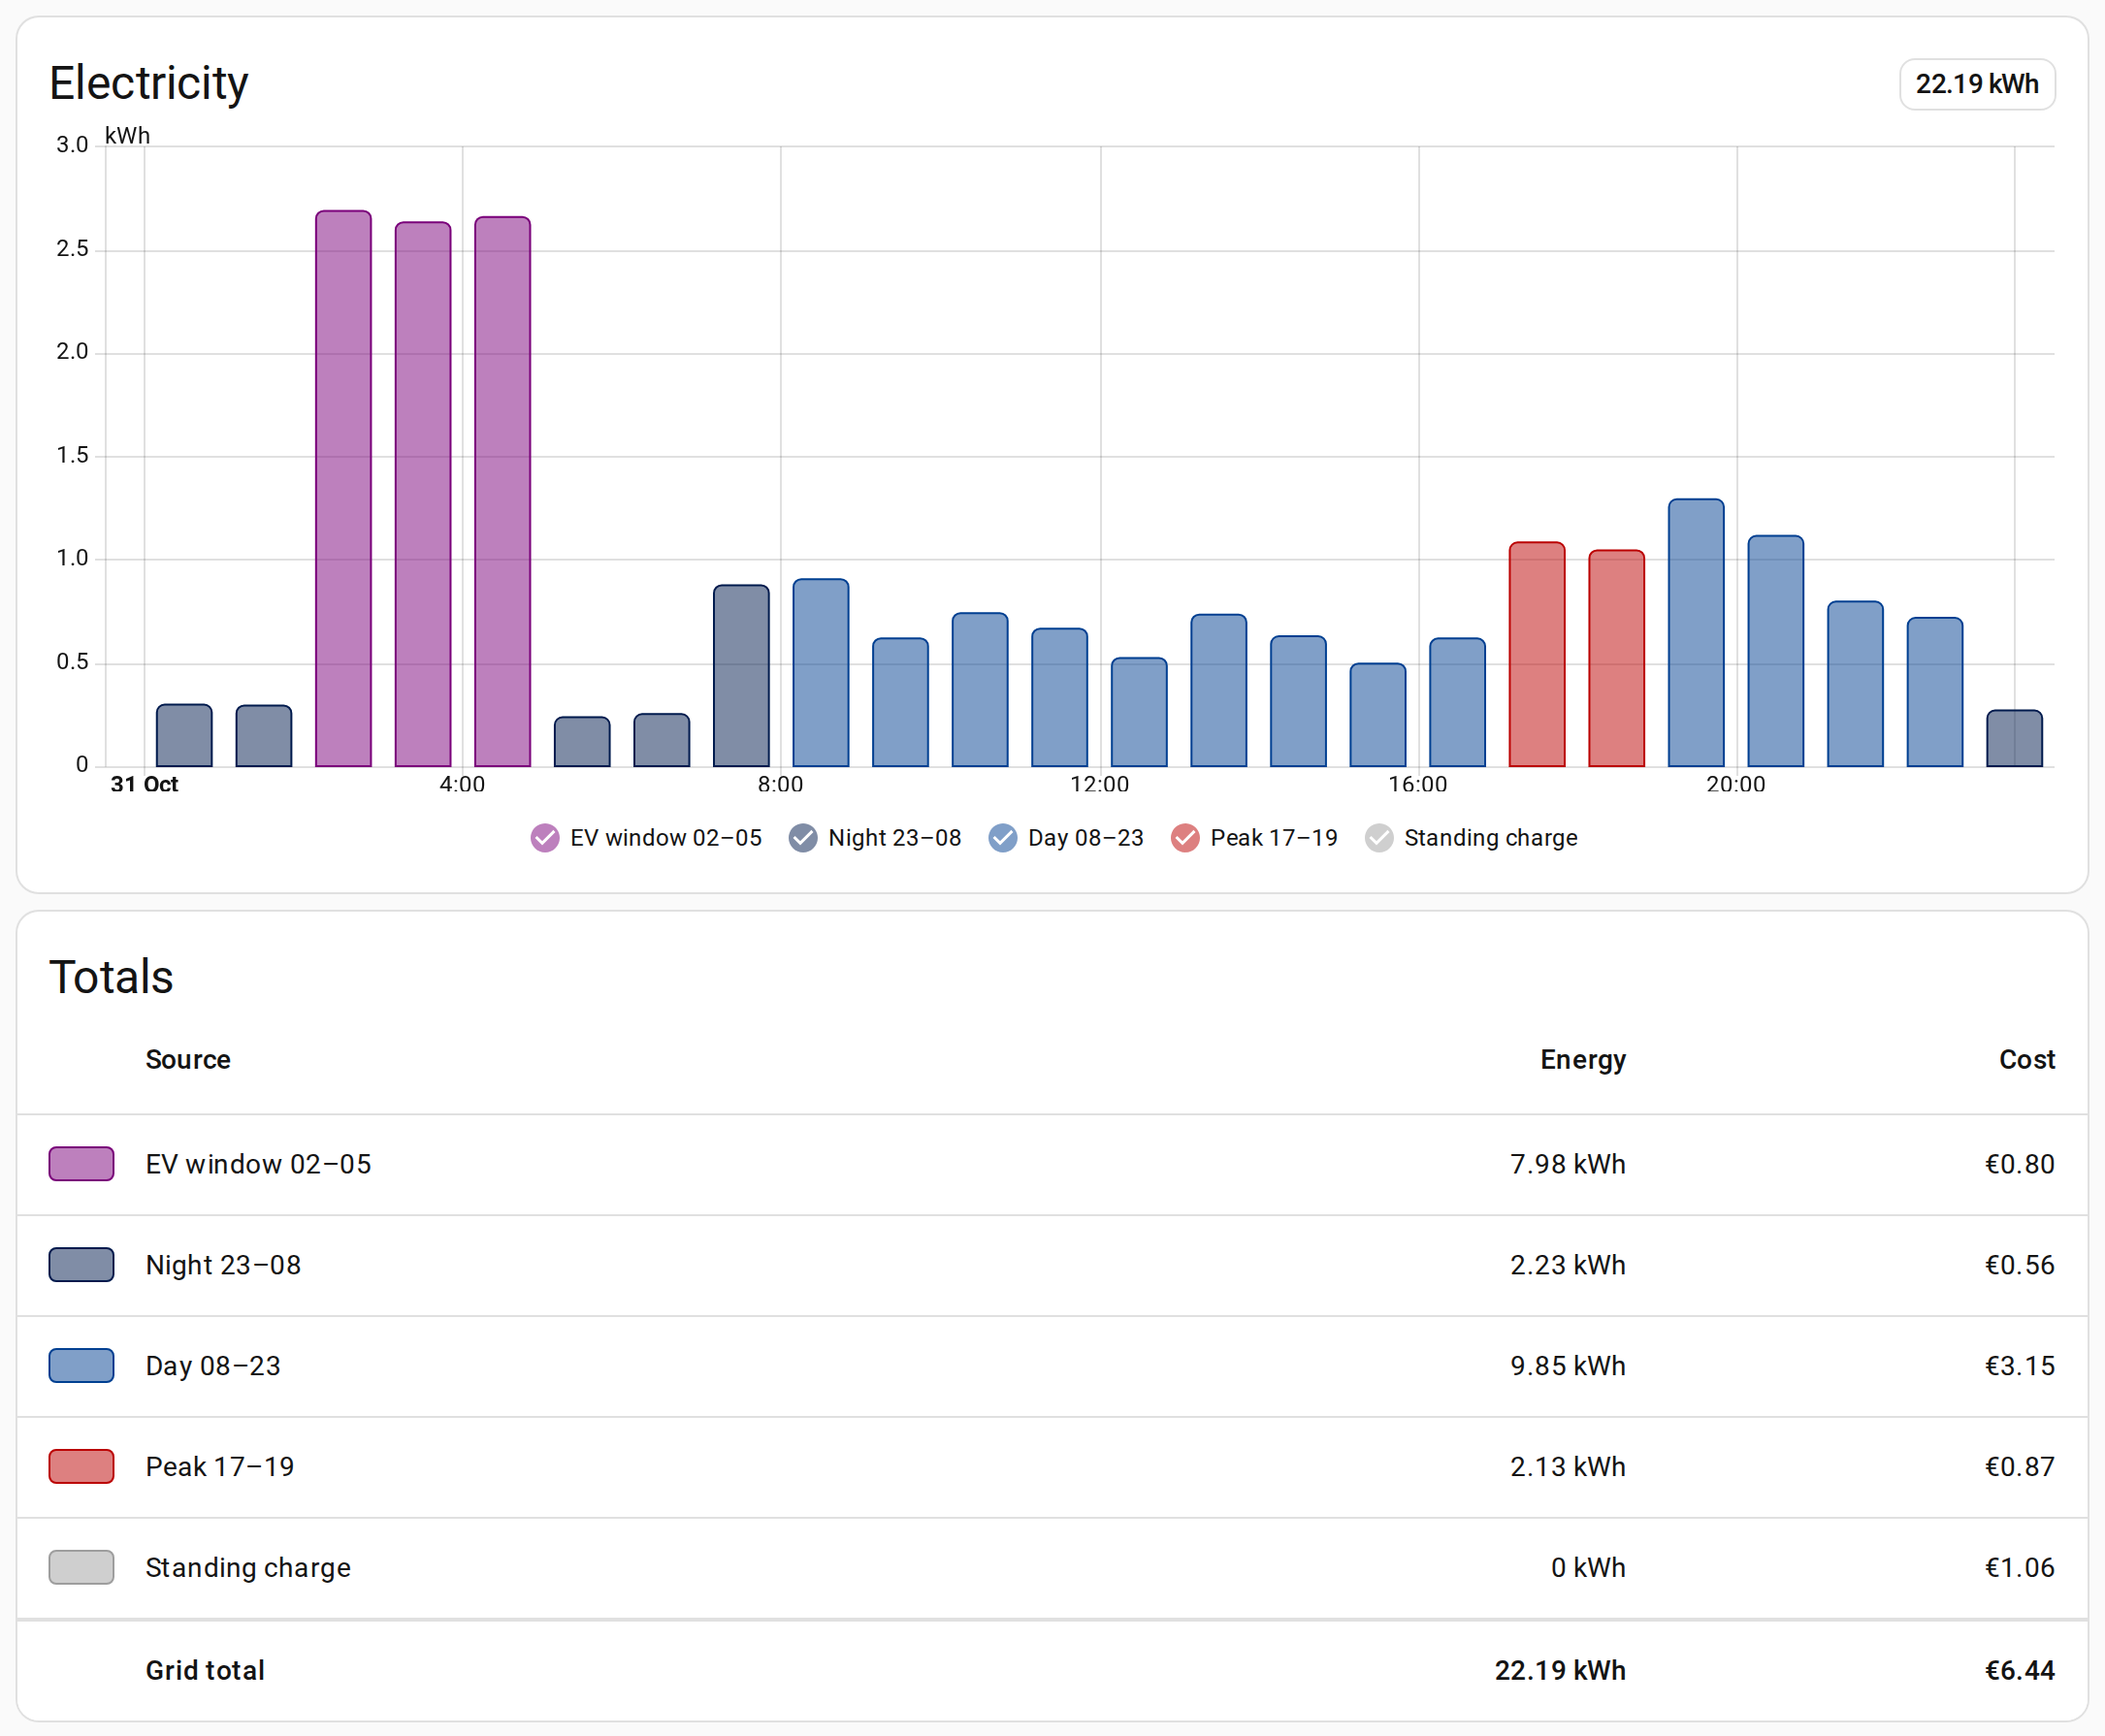
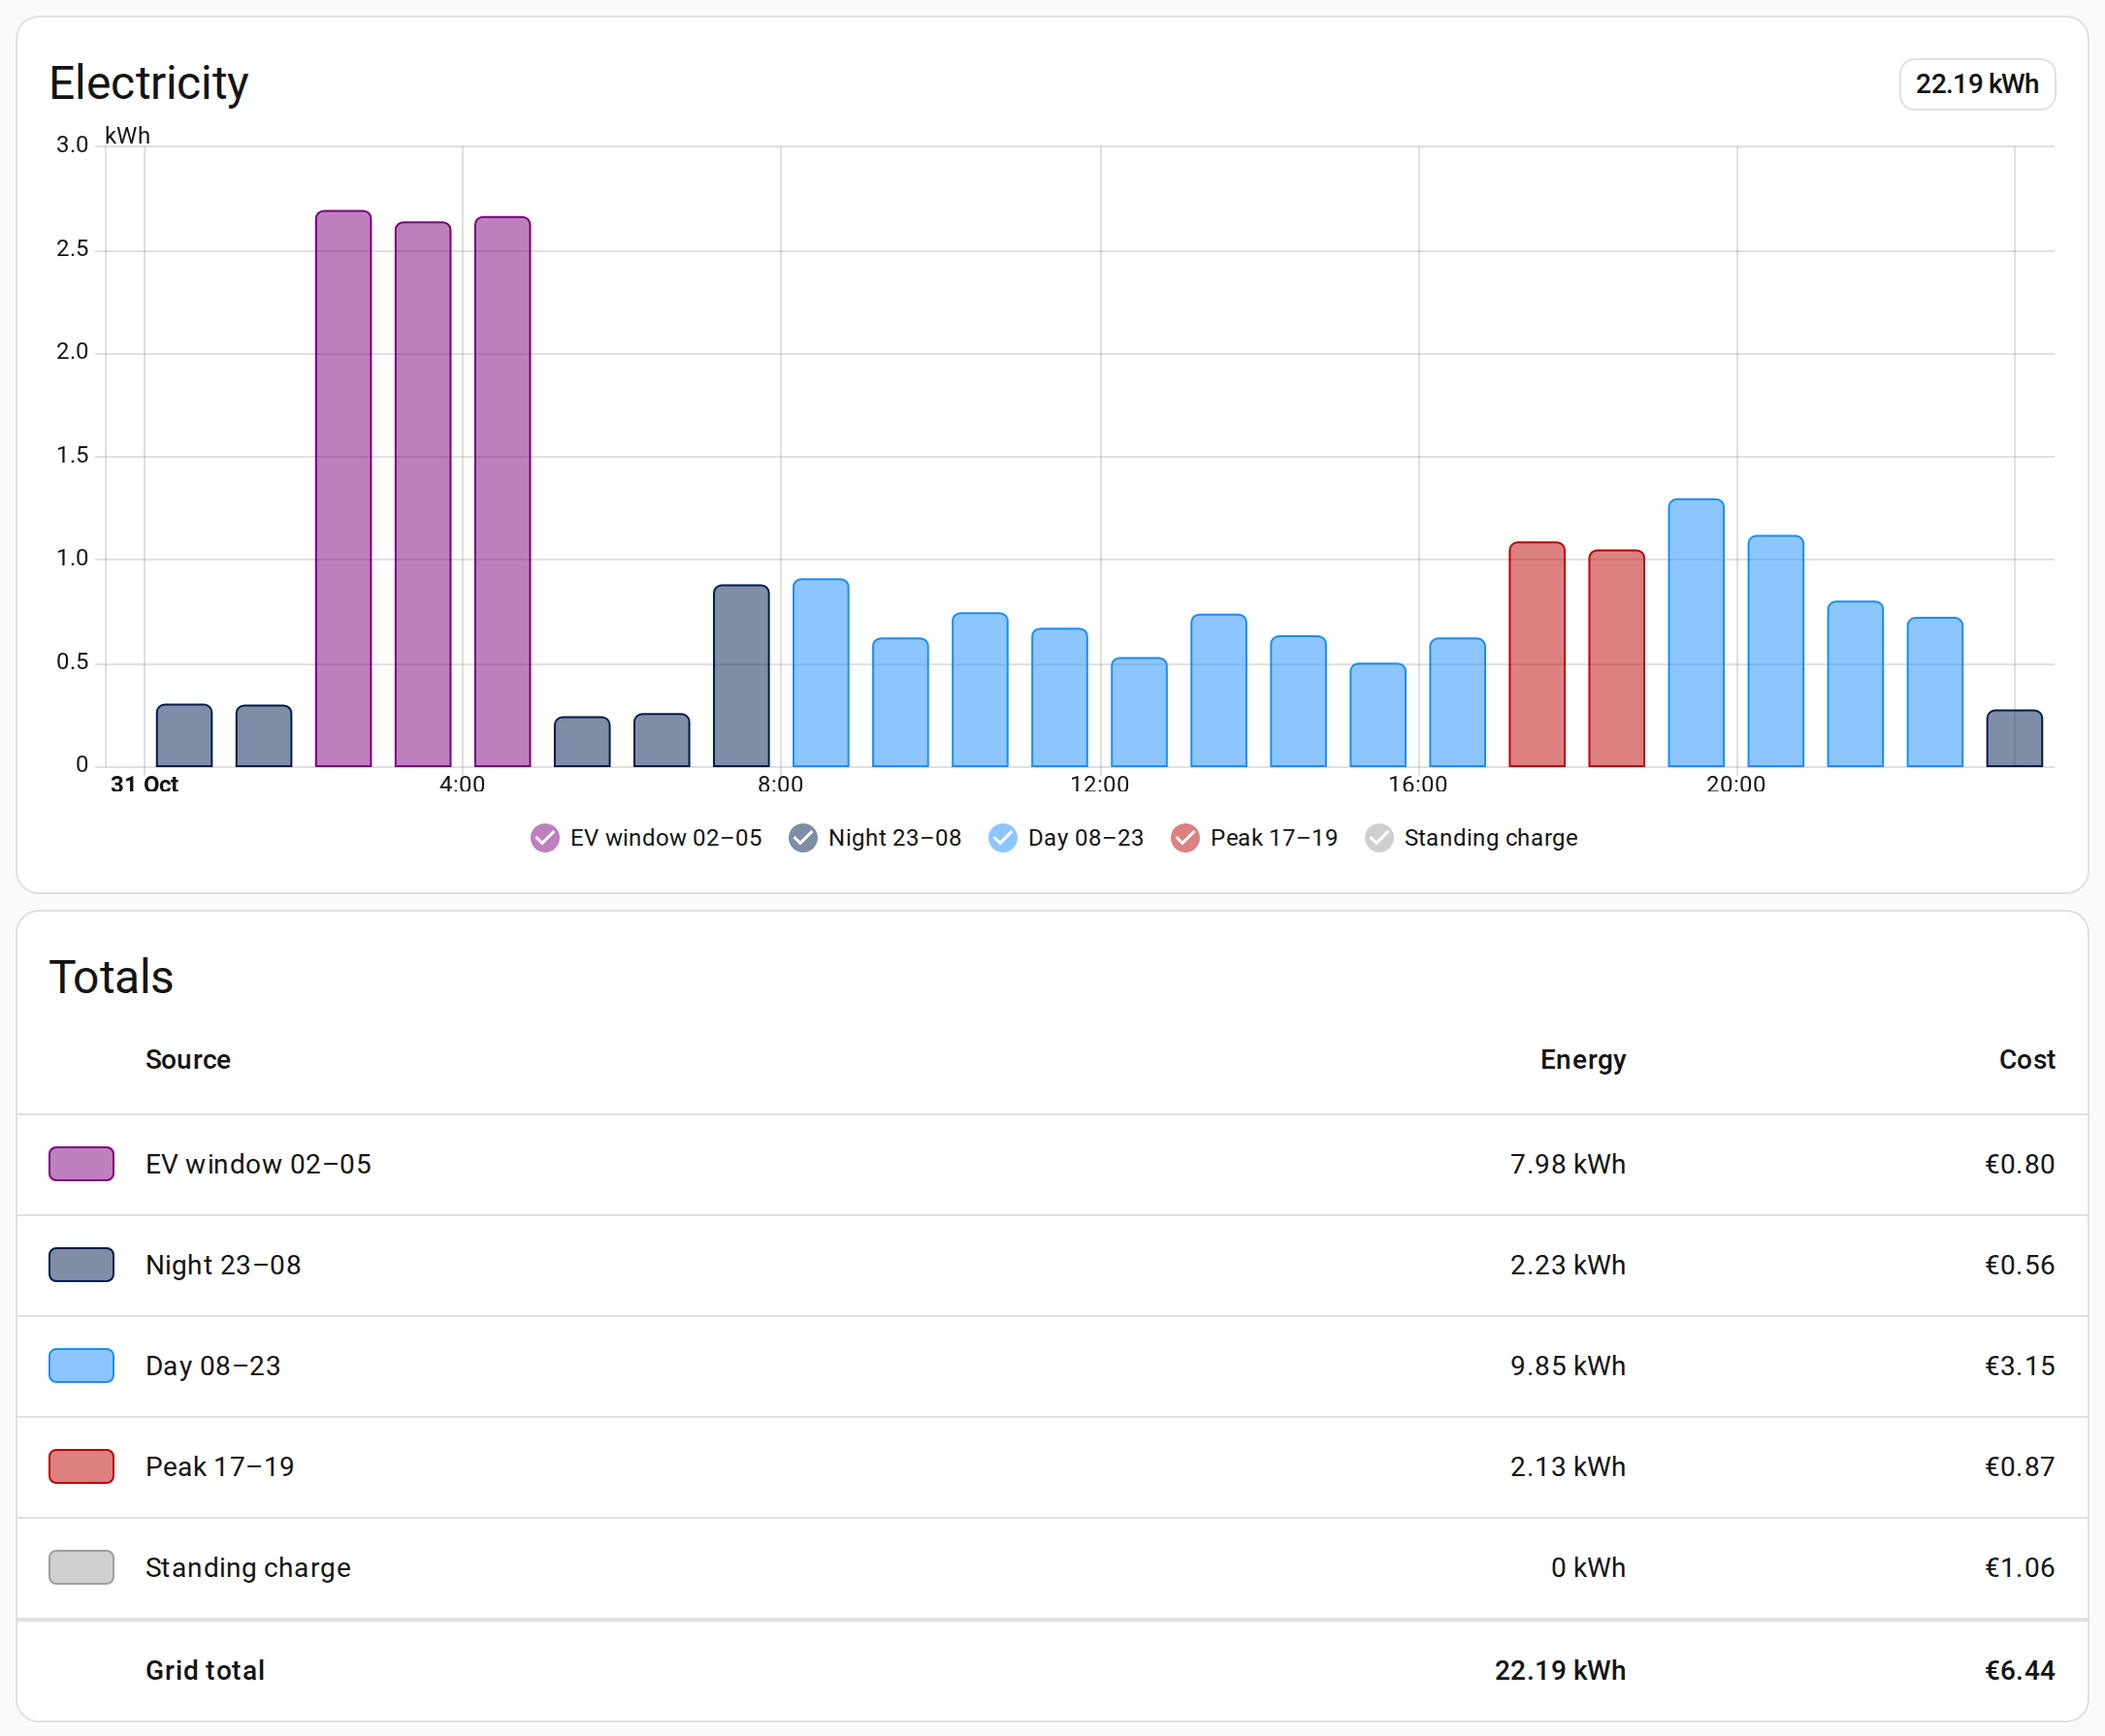
README: lighter Day colour in the theme example so Day and Night are easy to tell apart; refresh screenshots

Changed region(s): [[0.3705, 0.3073, 0.7101, 0.4916], [0.7719, 0.2765, 0.9571, 0.4609], [0.0, 0.7682, 0.0618, 0.7989]]

diff --git a/README.md b/README.md
@@ -474,7 +474,7 @@ For example, the colours of ESB Networks' own consumption chart, plus purple for
 ESB Energy:
   energy-grid-consumption-color-0: "#7a007a"   # EV / boost
   energy-grid-consumption-color-1: "#001a4d"   # Night
-  energy-grid-consumption-color-2: "#003f91"   # Day
+  energy-grid-consumption-color-2: "#1a8cff"   # Day
   energy-grid-consumption-color-3: "#bb0000"   # Peak
   energy-grid-consumption-color-4: "#9e9e9e"   # Standing charge
 ```
